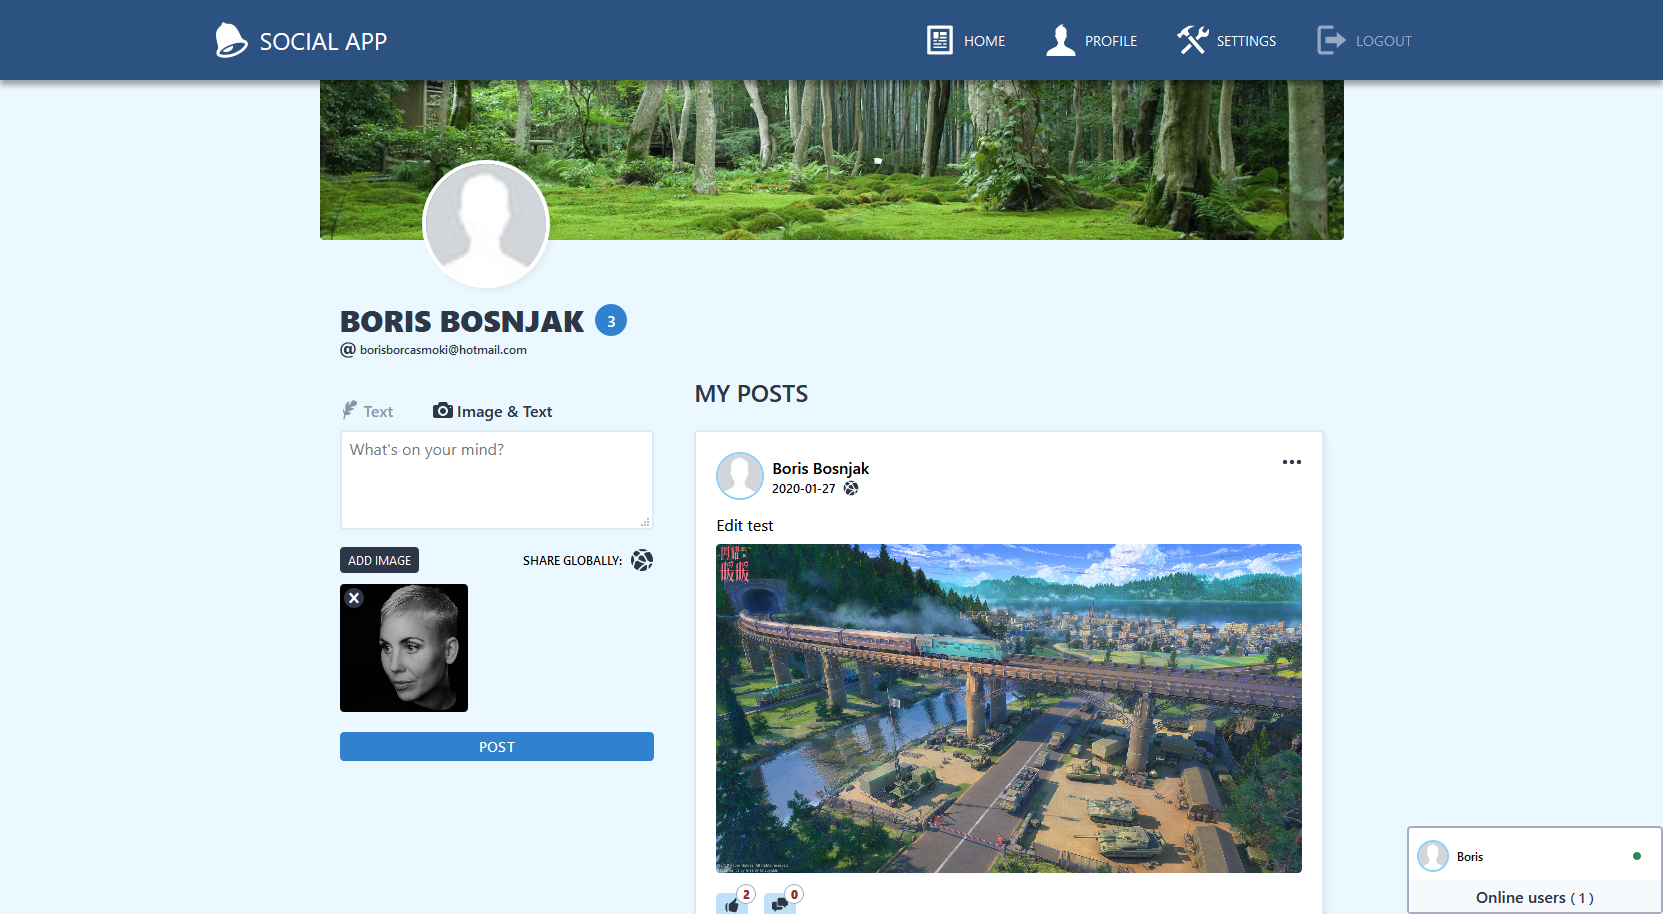
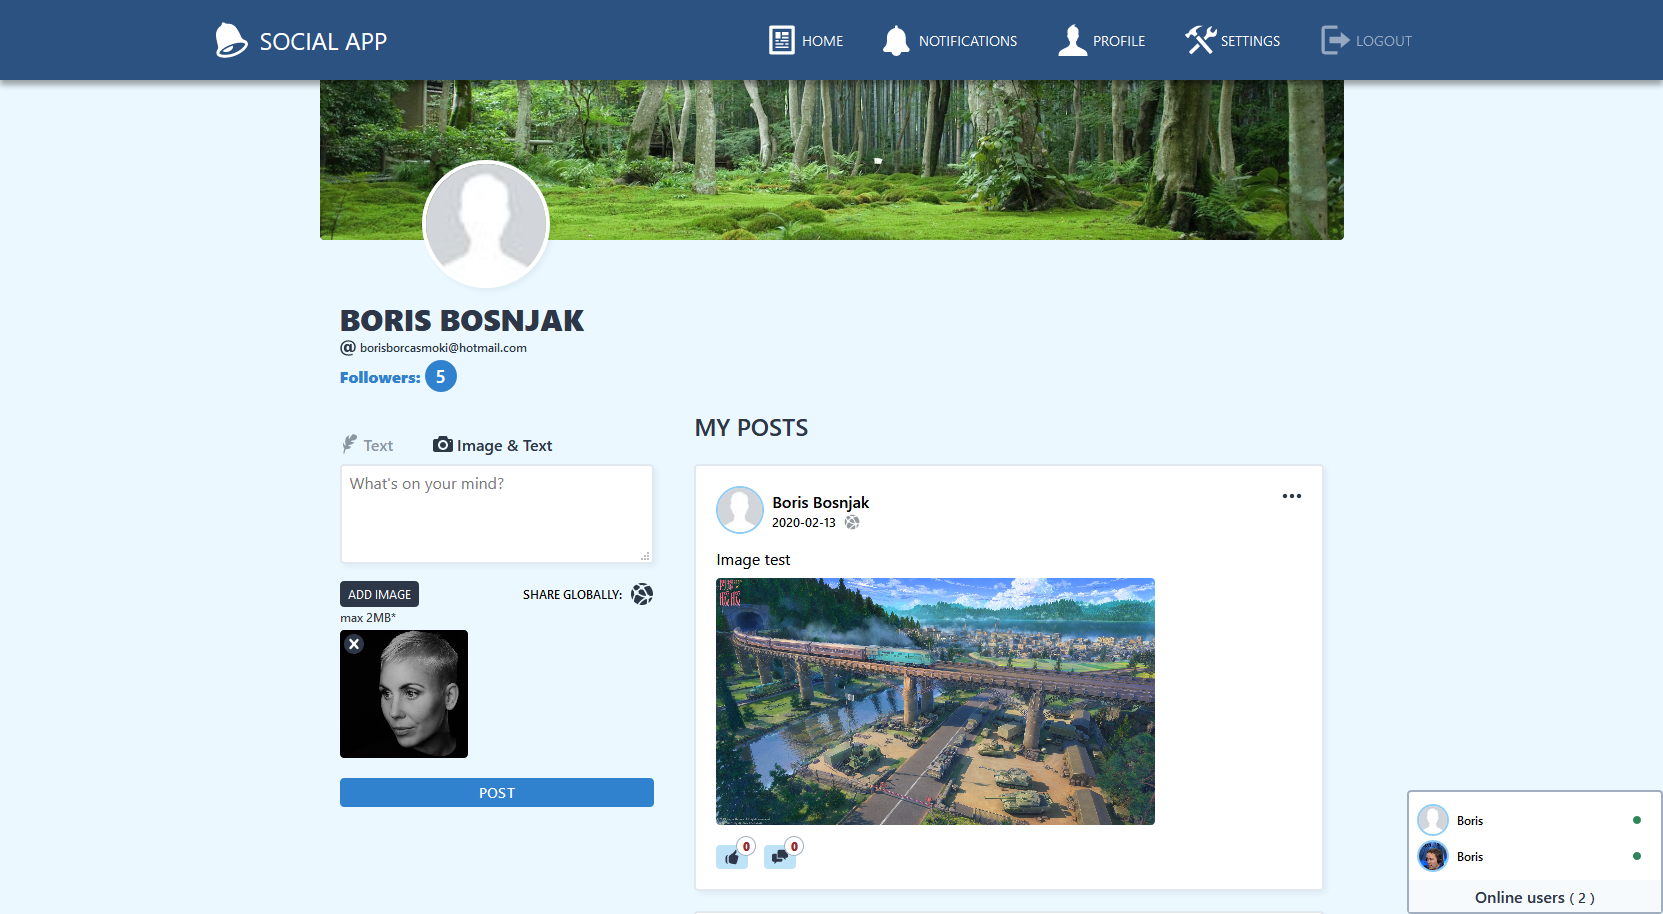
Socket.io svg, changed 2nd projects image, style tweaks

diff --git a/components/Projects.vue b/components/Projects.vue
@@ -56,7 +56,7 @@ export default {
           _id: 1,
           name: 'Social App',
           description:
-            "Facebook OAuth login, backend CRUD for posts and comments, track online users with Socket.io, like/dislike, follow/unfollow.",
+            "Facebook/Google OAuth login, backend CRUD for posts and comments, track online users with Socket.io, like/dislike, follow/unfollow, in-app notifications.",
           technologies: [
             {
               src: require('~/assets/img/nuxt.svg'),
@@ -73,6 +73,10 @@ export default {
             {
               src: require('~/assets/img/mysql.svg'),
               alt: 'MySQL Logo'
+            },
+            {
+              src: require('~/assets/img/socket-io.svg'),
+              alt: 'Socket.io Logo'
             }
           ],
           background: require('~/assets/img/social_app_bg.png'),

diff --git a/components/About.vue b/components/About.vue
@@ -112,6 +112,11 @@
             />
             <img
               class="w-10 h-10 m-3 lg:w-16 lg:h-16"
+              src="~/assets/img/socket-io.svg"
+              alt="Socket.io Logo"
+            />
+            <img
+              class="w-10 h-10 m-3 lg:w-16 lg:h-16"
               src="~/assets/img/vscode.svg"
               alt="VS Code Logo"
             />

diff --git a/components/ProjectItem.vue b/components/ProjectItem.vue
@@ -17,7 +17,7 @@
     >
       <div class="mb-5 ">
         <h1 class="uppercase font-semibold tracking-wide">{{project.name}}</h1>
-        <p class="text-xs opacity-75 w-5/6">{{project.description}}</p>
+        <p class="text-xs opacity-75">{{project.description}}</p>
       </div>
       <div class="flex items-center mt-auto">
         <img

diff --git a/components/Contact.vue b/components/Contact.vue
@@ -48,8 +48,10 @@ export default {
 </script>
 
 <style scoped>
-.contact {
-  clip-path: polygon(50% 10%, 100% 0, 100% 100%, 50% 100%, 0 100%, 0 0);
+@media (min-width: 640px) {
+  .contact {
+    clip-path: polygon(50% 7%, 100% 0, 100% 100%, 50% 100%, 0 100%, 0 0);
+  }
 }
 .contact > div > h1::after {
   @apply absolute;
